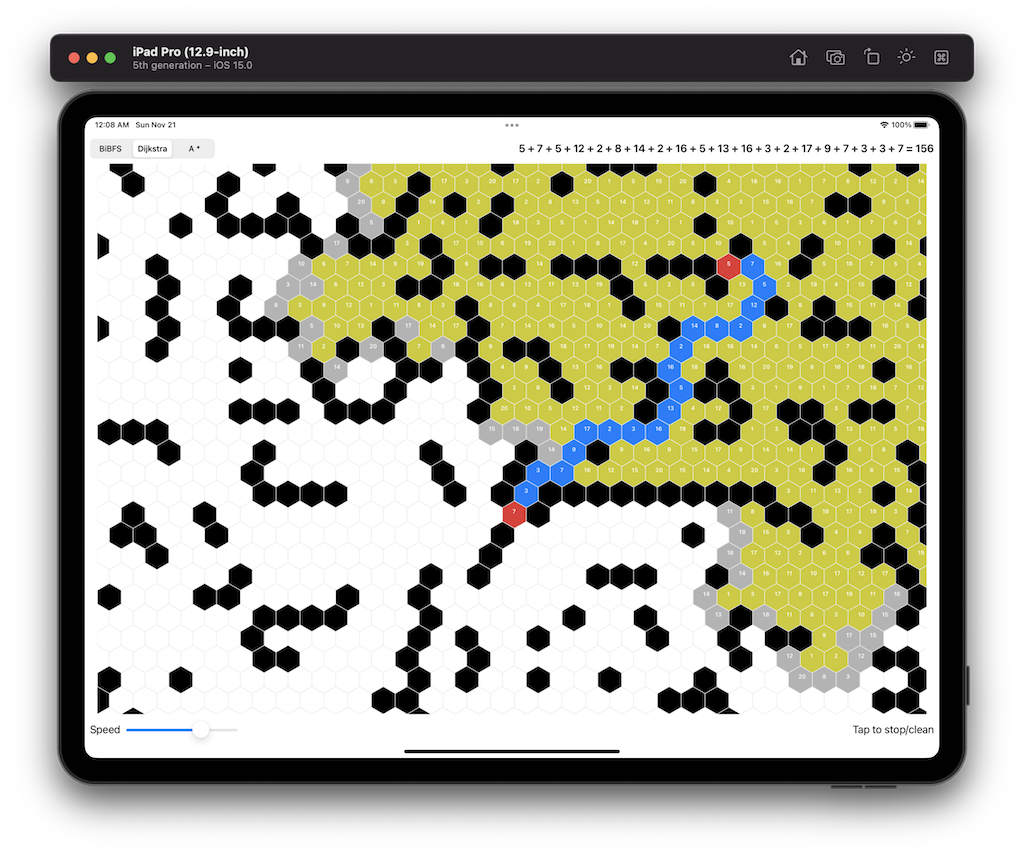
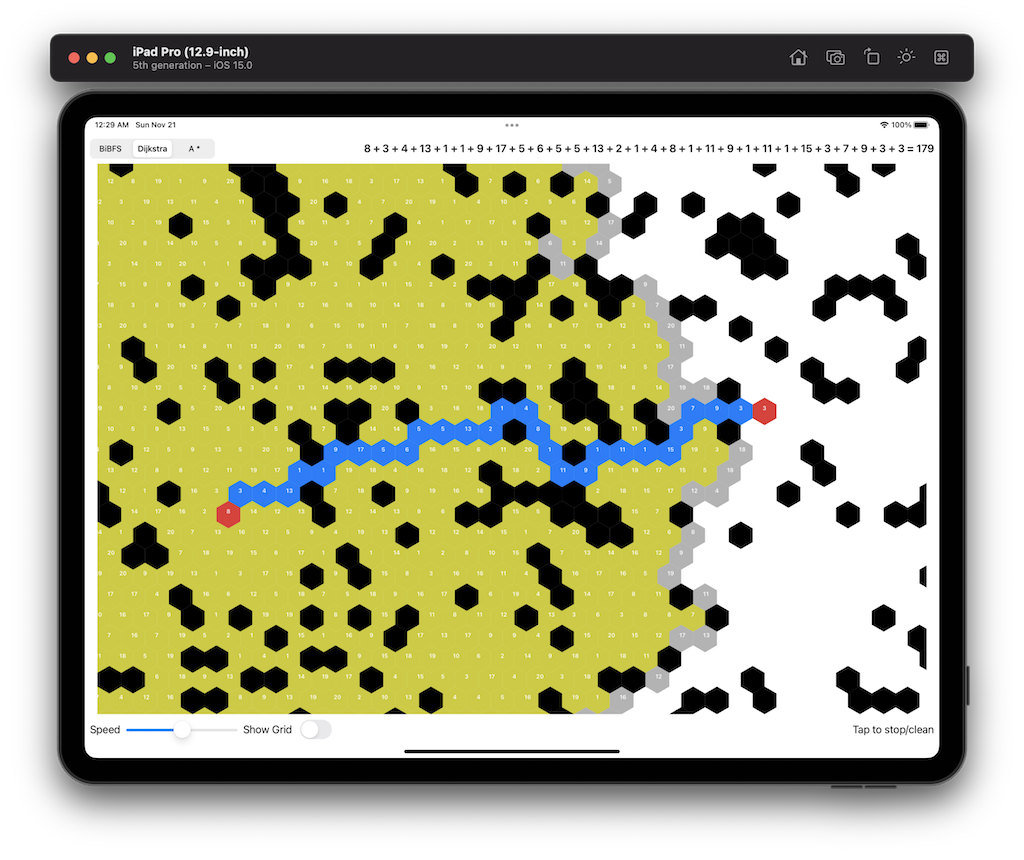
Add border control & update Readme

diff --git a/ShortestPathVisualize/View/MapView.swift b/ShortestPathVisualize/View/MapView.swift
@@ -11,16 +11,16 @@ import SwiftUI
 struct MapView: View {
     @Binding var displayingData: [HexDisplay]
     @Binding var showWeight: Bool
+    @Binding var backgroundGrid: Bool
     
     let mapData: Map
-    let backgroundGrid: Bool
 
     var body: some View {
         ZStack {
             if backgroundGrid {
                 EmptyHexagonMapView(gridData: Array(mapData.points.map { HexDisplay($0, color: .clear) }))
             }
-            HexagonMapView(displayData: $displayingData, showWeight: $showWeight)
+            HexagonMapView(displayData: $displayingData, showWeight: $showWeight, showBorder: $backgroundGrid)
         }
     }
 }
@@ -28,7 +28,9 @@ struct MapView: View {
 struct HexagonMapView: UIViewRepresentable {
     @Binding var displayData: [HexDisplay]
     @Binding var showWeight: Bool
+    @Binding var showBorder: Bool
     var filled: Bool = true
+    
 
     func makeUIView(context: Context) -> UIHexagonMapView {
         let view = UIHexagonMapView()
@@ -40,6 +42,7 @@ struct HexagonMapView: UIViewRepresentable {
         uiView.displayData = displayData
         uiView.showWeight = showWeight
         uiView.filled = filled
+        uiView.showBorder = showBorder
         uiView.setNeedsDisplay()
     }
 }
@@ -57,6 +60,7 @@ struct EmptyHexagonMapView: UIViewRepresentable {
         uiView.displayData = gridData
         uiView.showWeight = false
         uiView.filled = false
+        uiView.showBorder = true
         uiView.setNeedsDisplay()
     }
 }
@@ -65,6 +69,7 @@ class UIHexagonMapView: UIView {
     var displayData: [HexDisplay] = []
     var showWeight: Bool = false
     var filled: Bool = true
+    var showBorder: Bool = true
     
     let itemSize: CGSize = Global.layout.size
     
@@ -84,9 +89,11 @@ class UIHexagonMapView: UIView {
                 path.fill()
             }
             
-            Color.border.uiColor().setStroke()
-            path.lineWidth = 1
-            path.stroke()
+            if showBorder {
+                Color.border.uiColor().setStroke()
+                path.lineWidth = 0.5
+                path.stroke()
+            }
             
             if showWeight, hex.data.weight > 0 {
                 let position = CGPoint(

diff --git a/ShortestPathVisualize/View/ContentView.swift b/ShortestPathVisualize/View/ContentView.swift
@@ -10,10 +10,11 @@ import SwiftUI
 
 struct ContentView: View {
     @ObservedObject var viewModel = GridViewModel()
+    @State var showGrid: Bool = false
     
     var body: some View {
         ZStack(alignment: .top) {
-            GridView(self.viewModel)
+            GridView(viewModel: self.viewModel, showGrid: $showGrid)
                 .padding(.vertical, 50)
                 .padding(.horizontal, 20)
             makeControls()
@@ -34,6 +35,7 @@ struct ContentView: View {
                 }
                 .pickerStyle(SegmentedPickerStyle())
                 .frame(width: 200, height: 35, alignment: .trailing)
+                
                 Spacer()
                 
                 if self.viewModel.algo != .biDirectional {
@@ -48,8 +50,8 @@ struct ContentView: View {
             
             HStack {
                 Text("Speed")
-                Slider(value: self.$viewModel.speed)
-                    .frame(width: 180, height: 35, alignment: .trailing)
+                Slider(value: self.$viewModel.speed).frame(width: 180, height: 35, alignment: .trailing)
+                Toggle("Show Grid", isOn: $showGrid).frame(width: 140)
                 
                 if viewModel.algo != .biDirectional, viewModel.destinations.count != 2 {
                     Button {
@@ -64,6 +66,7 @@ struct ContentView: View {
                 }
                 
                 Spacer()
+                
                 if self.viewModel.destinations.count == 0 {
                     if self.viewModel.algo != .biDirectional {
                         Text("Tap any point on the screen / longpress and drag to draw wall")

diff --git a/ShortestPathVisualize/View/GridView.swift b/ShortestPathVisualize/View/GridView.swift
@@ -11,10 +11,7 @@ import SwiftUI
 
 struct GridView: View {
     @ObservedObject var viewModel: GridViewModel
-    
-    init(_ vm: GridViewModel) {
-        viewModel = vm
-    }
+    @Binding var showGrid: Bool
     
     var body: some View {
         GeometryReader { geometry in
@@ -22,8 +19,8 @@ struct GridView: View {
                 MapView(
                     displayingData: self.$viewModel.hexes,
                     showWeight: self.$viewModel.showWeight,
-                    mapData: self.viewModel.gridData,
-                    backgroundGrid: true
+                    backgroundGrid: self.$showGrid,
+                    mapData: self.viewModel.gridData
                 )
                 
                 TapListenerView(tappedCallback: { point in

diff --git a/ShortestPathVisualize/Logic/GridViewModel.swift b/ShortestPathVisualize/Logic/GridViewModel.swift
@@ -34,9 +34,9 @@ class GridViewModel: ObservableObject {
     @Published var hexes = [HexDisplay]()
     @Published var pathSum: String = ""
     @Published var showWeight: Bool = false
-    @Published var speed: CGFloat = 0.7
+    @Published var speed: CGFloat = 0.5
     
-    private static let stepTime: CGFloat = 200
+    private static let stepTime: CGFloat = 150
     
     var stepDelay: DispatchTimeInterval = .milliseconds(Int(GridViewModel.stepTime))
     private var cancellables = Set<AnyCancellable>()
